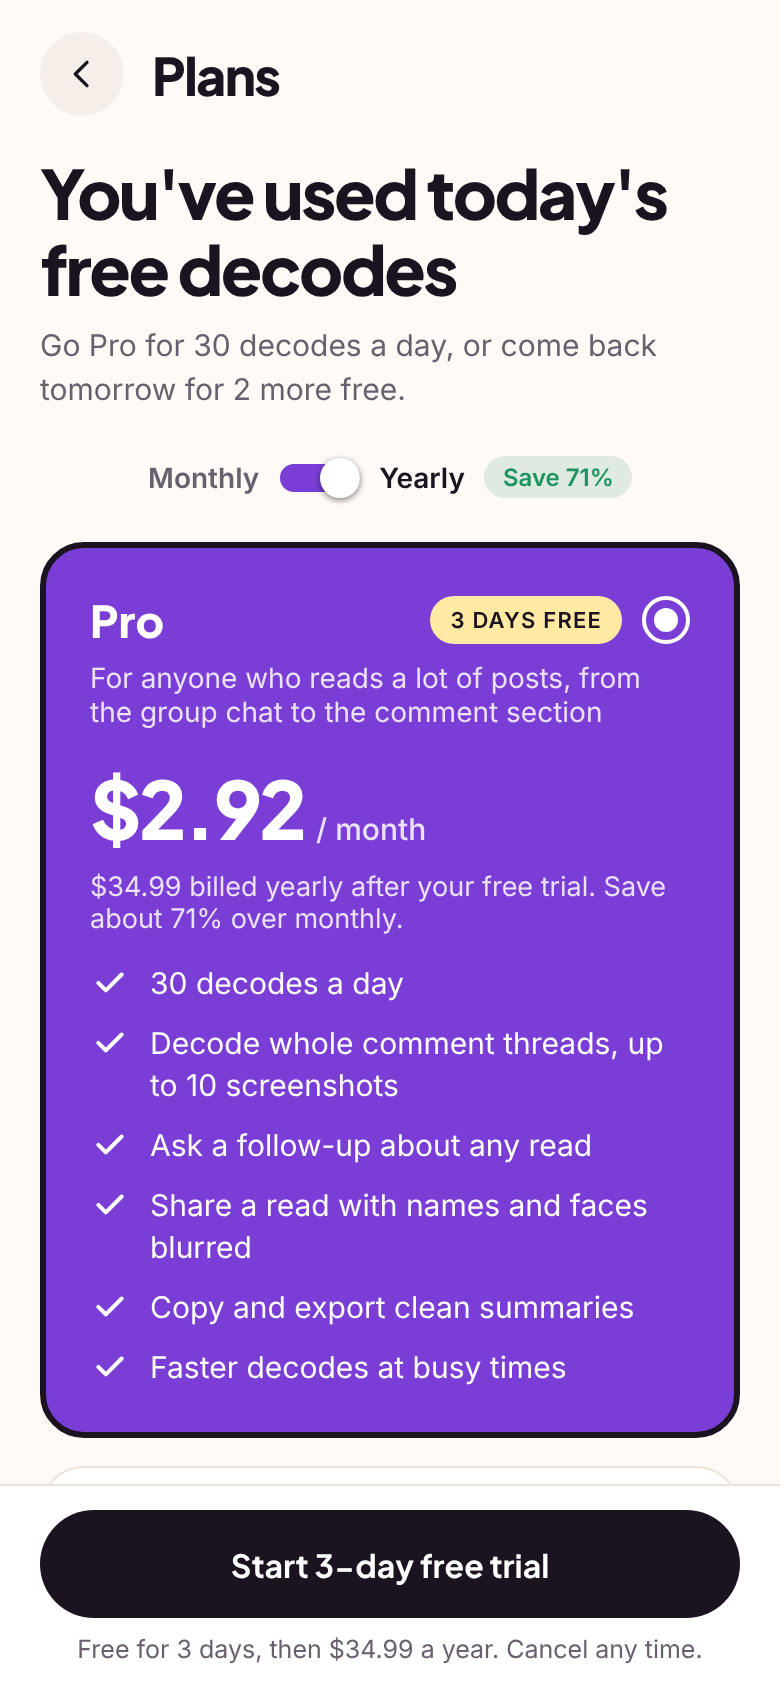
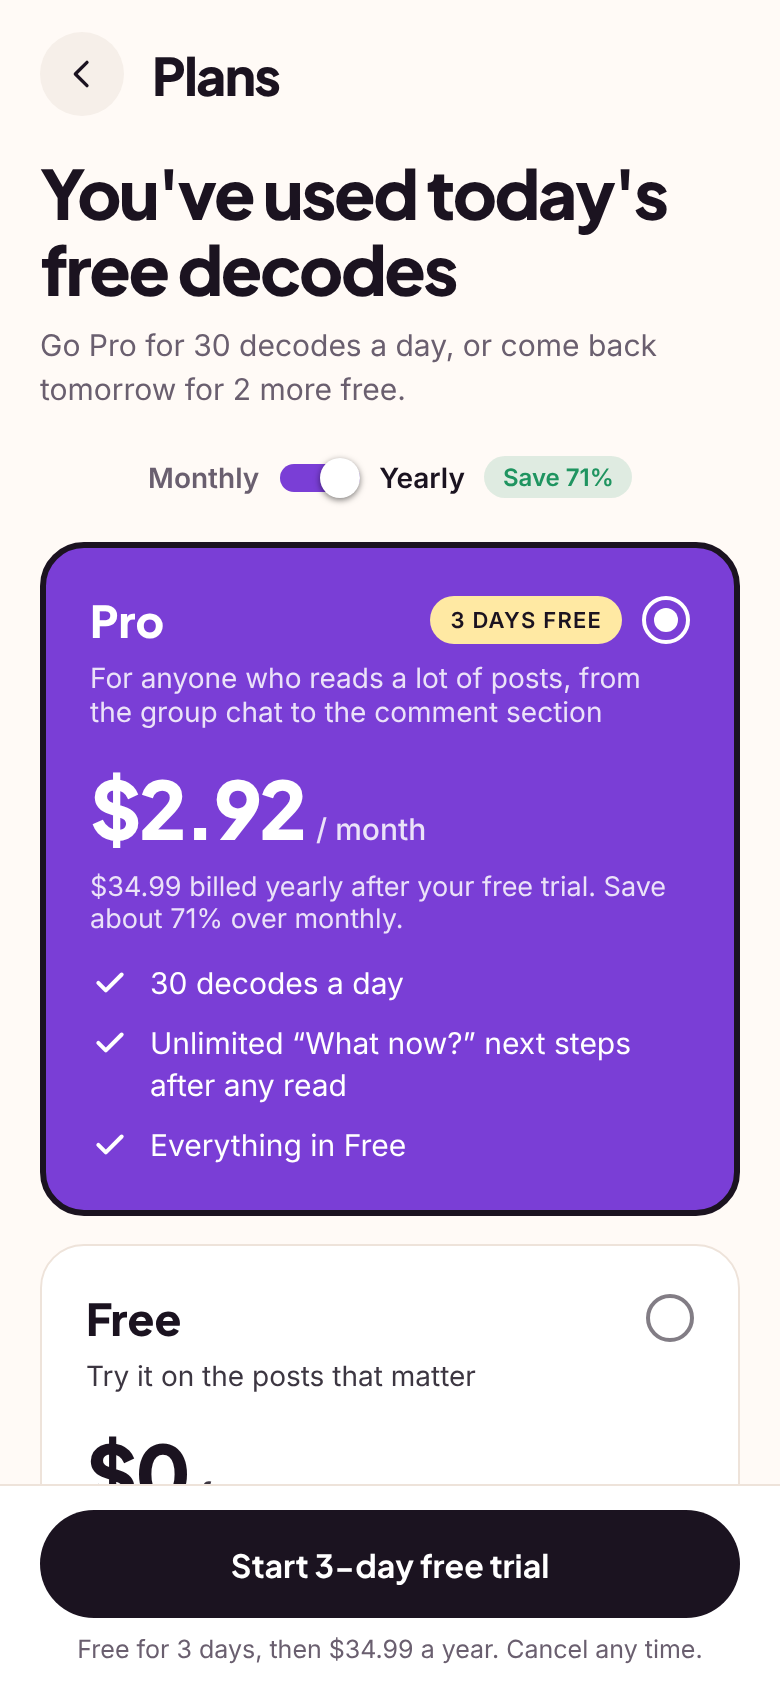
Refresh Plans screenshots and Pro social image; add What now screen
Claude-Session: https://claude.ai/code/session_01EqzuJmzqRZJHdxvpcMV99t

Changed region(s): [[0.0308, 0.6161, 0.9538, 0.8934]]

diff --git a/docs/screenshots/README.md b/docs/screenshots/README.md
@@ -17,6 +17,7 @@ Captured 2026-11-21 at iPhone size (390 x 844, shown at 2x).
 | `light-10-about.png` | About: principles and privacy |
 | `light-11-paywall-free-limit.png` | Paywall at the free daily limit |
 | `light-12-plans-monthly.png` | Plans with monthly selected |
+| `light-13-what-now.png` | "What now?" options after a read (example) |
 | `dark-01-home.png`, `dark-02-add-context.png`, `dark-03-your-read.png` | The same screens in dark mode |
 
 ## Web pages (`web/`)

diff --git a/marketing/README.md b/marketing/README.md
@@ -124,7 +124,7 @@ To change wording or timing, edit the scene's `.html` file in `video/` and run `
 
 ## Single app screens for posts
 
-Nine app screens, each with a headline, in two sizes. Post them as carousels, stories, or between videos.
+Ten app screens, each with a headline, in two sizes. Post them as carousels, stories, or between videos.
 
 | Folder | Size | Use it for |
 | --- | --- | --- |
